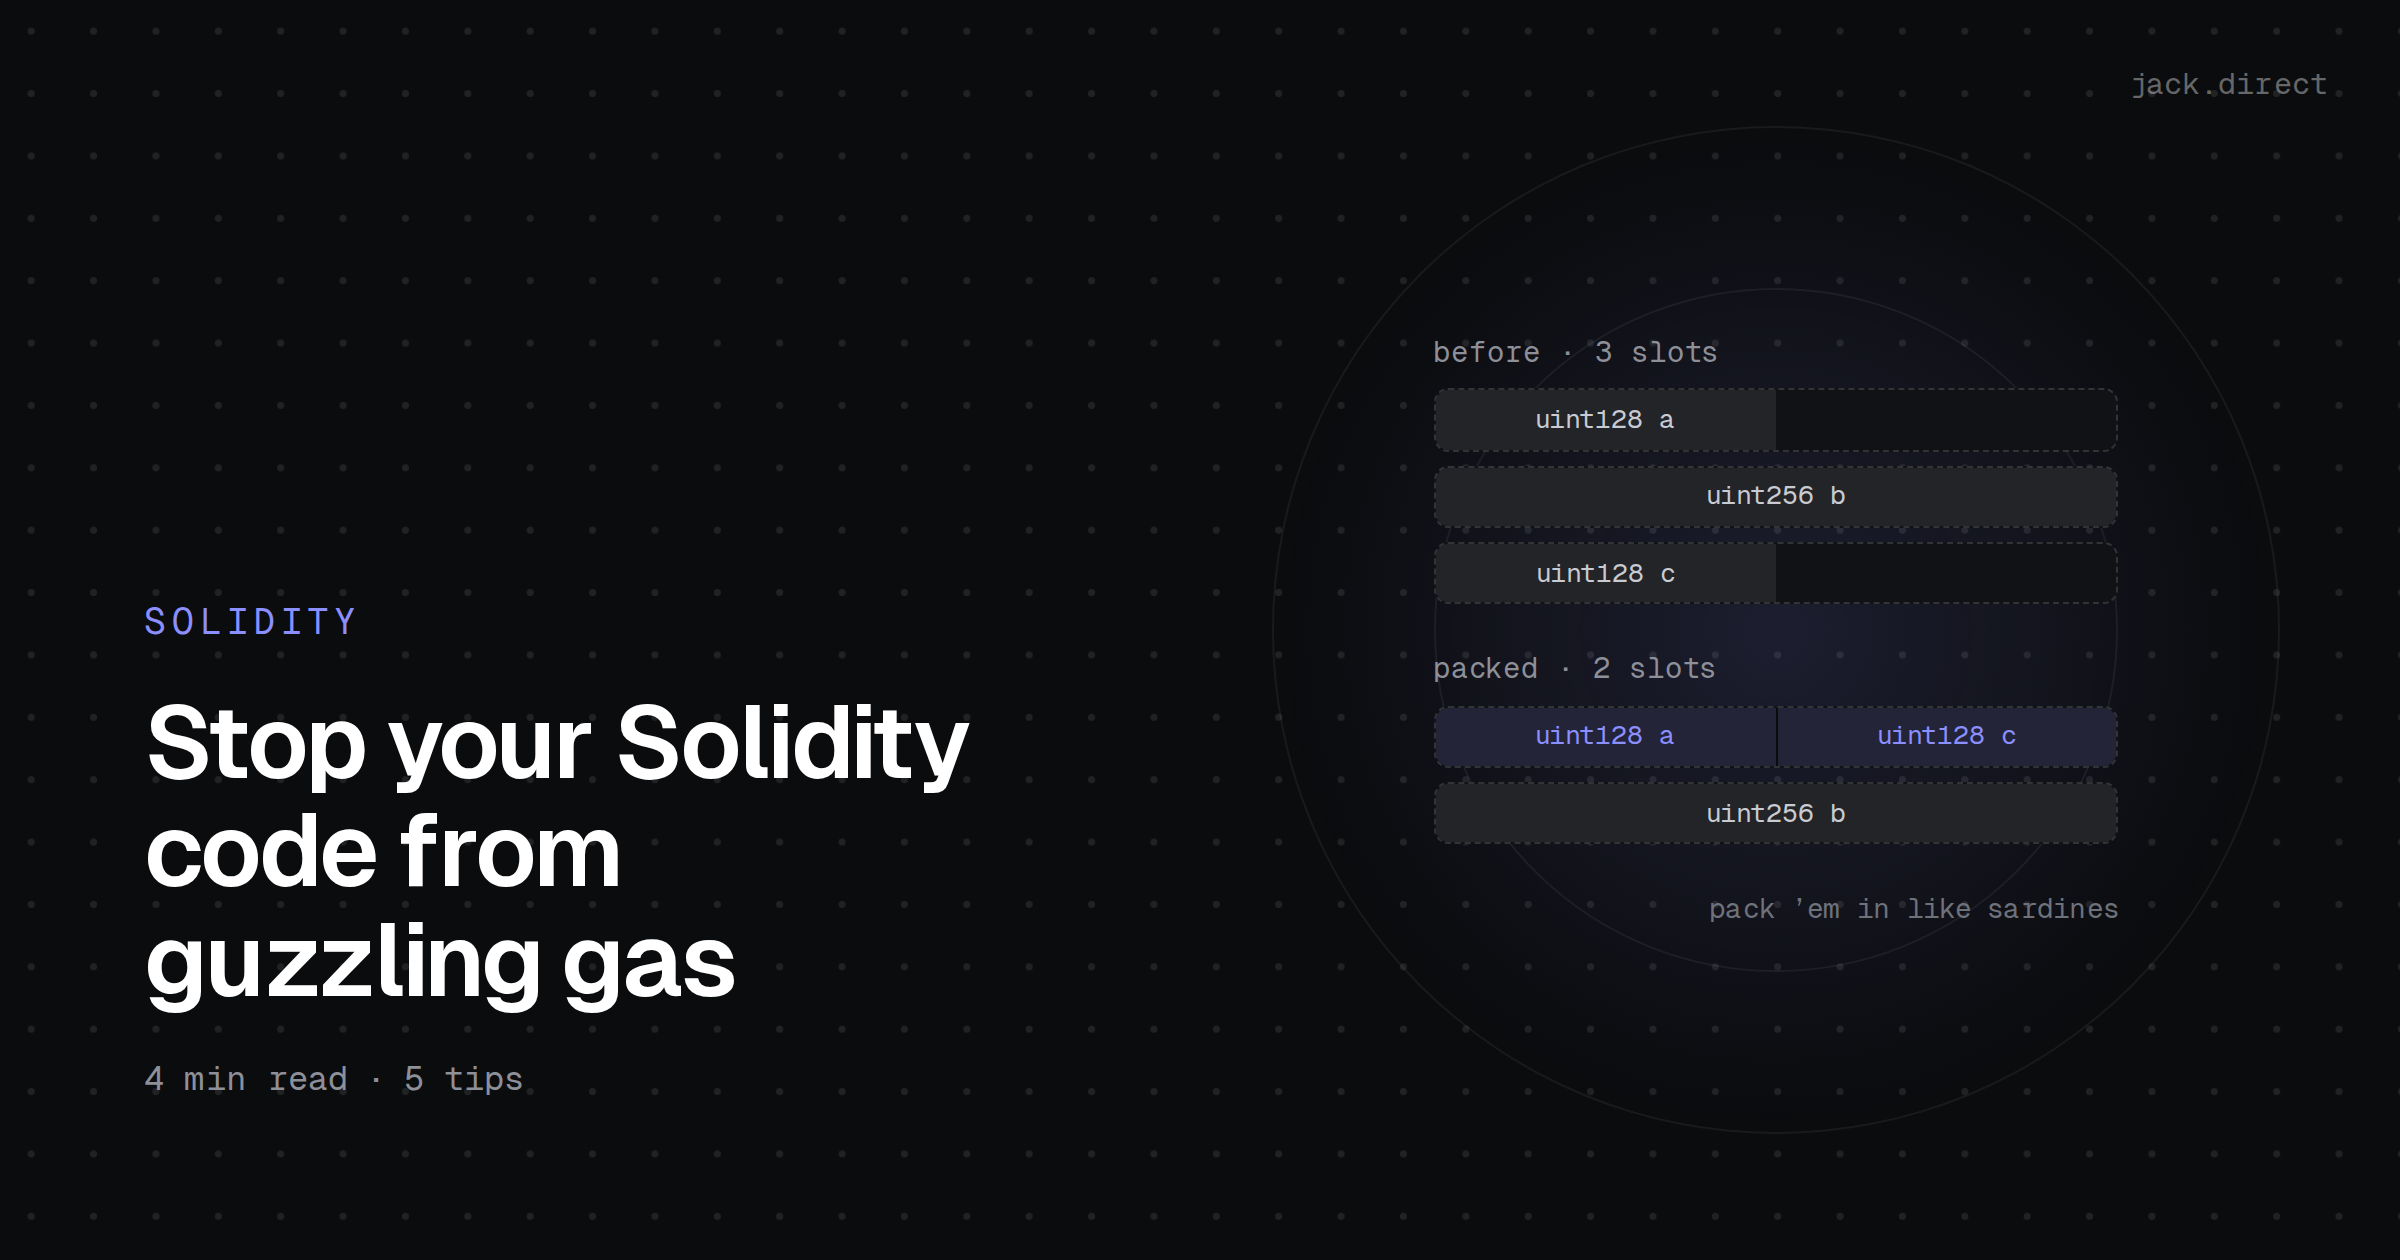
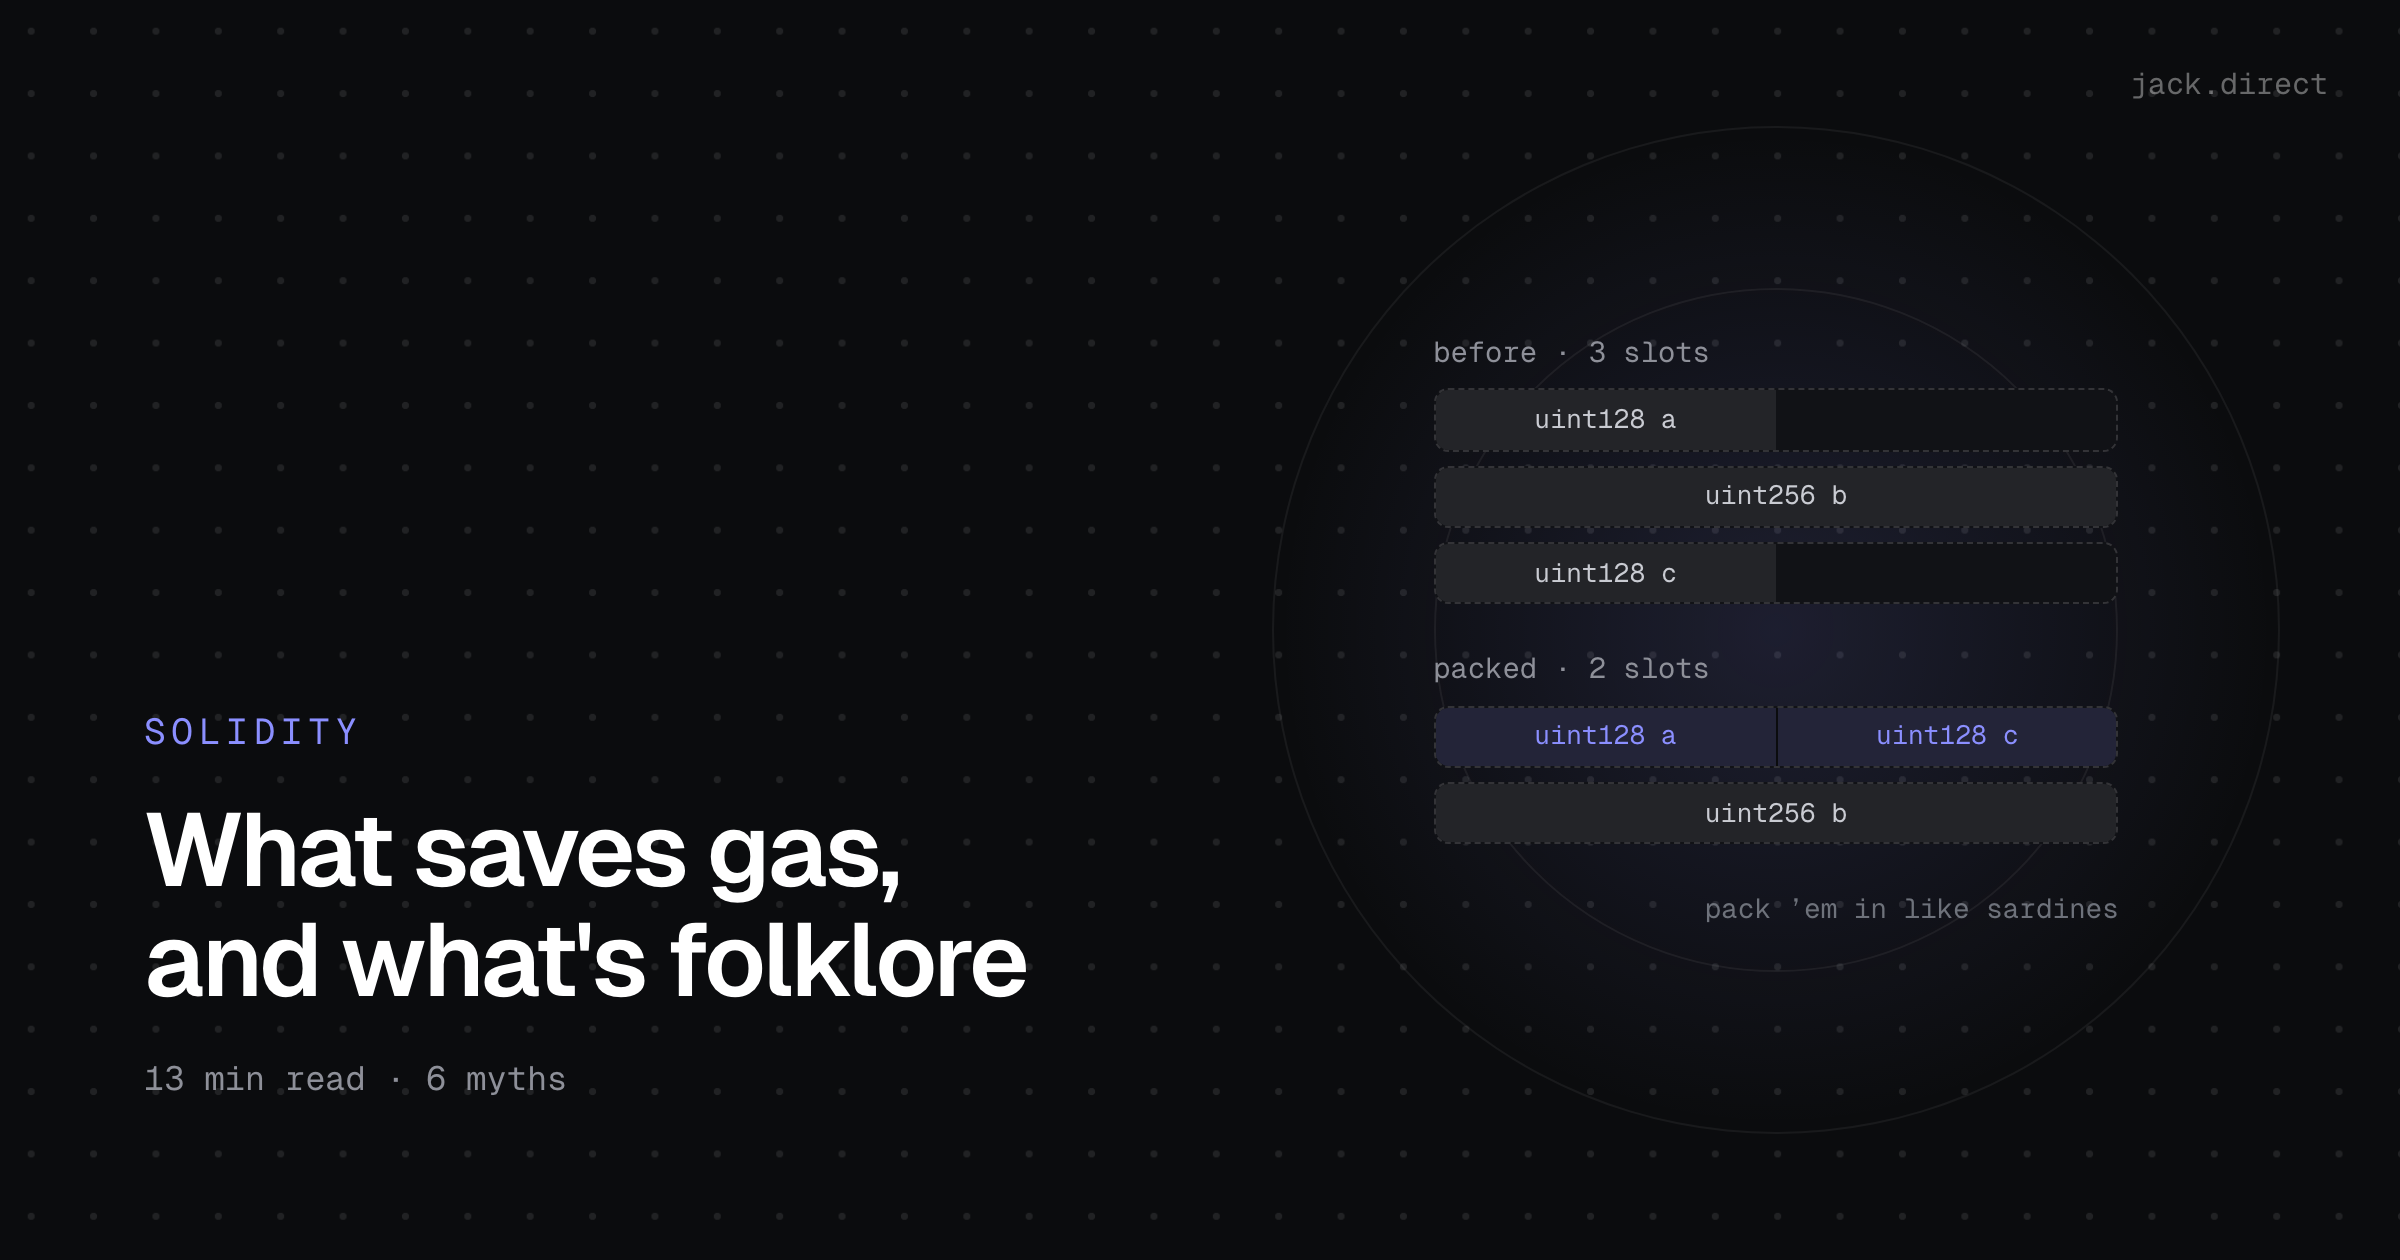
design: refresh gas post cover to match the rewrite

diff --git a/src/lib/covers.ts b/src/lib/covers.ts
@@ -162,8 +162,8 @@ export const COVERS: Record<string, CoverSpec> = {
 
   'how-to-stop-your-solidity-code-from-guzzling-gas-and-eth': {
     kicker: 'Solidity',
-    short: 'Stop your Solidity code from guzzling gas',
-    stat: '5 tips',
+    short: "What saves gas, and what's folklore",
+    stat: '6 myths',
     diagram: {
       kind: 'slots',
       rows: [
